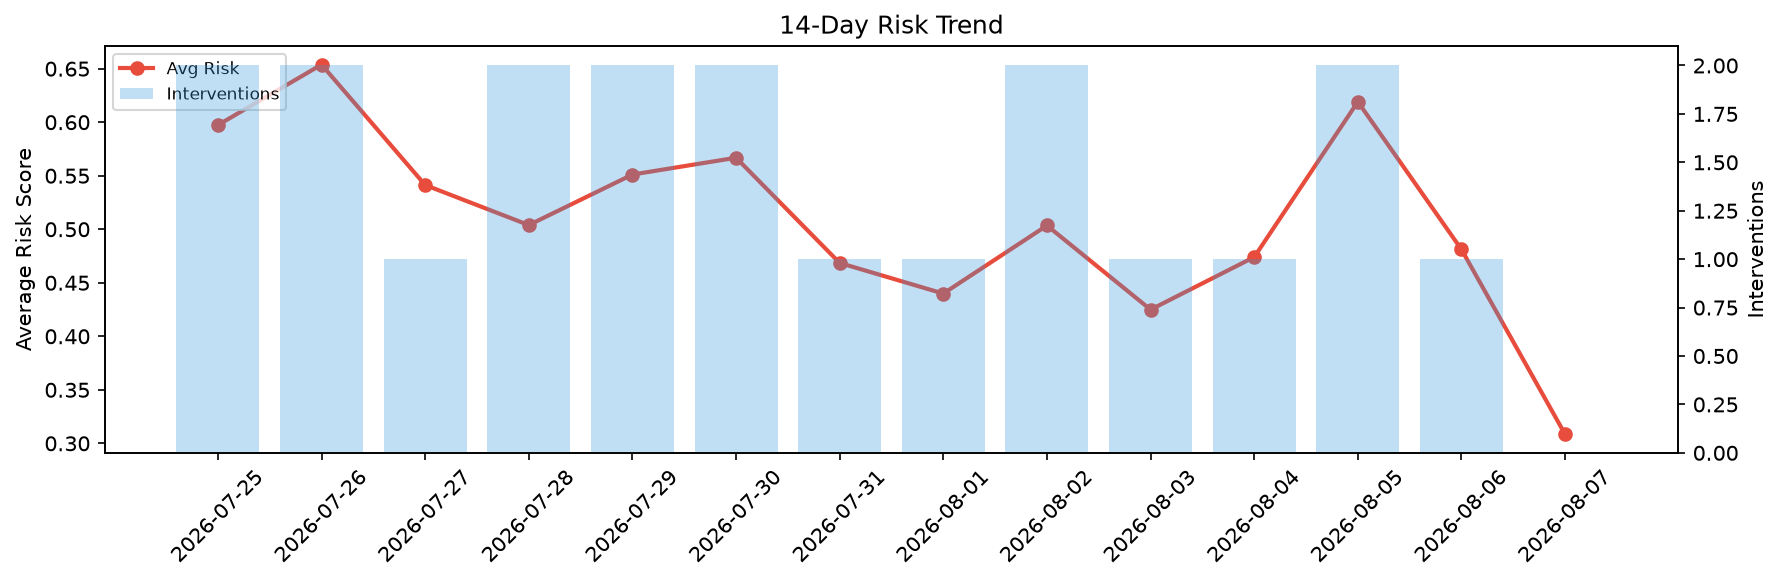
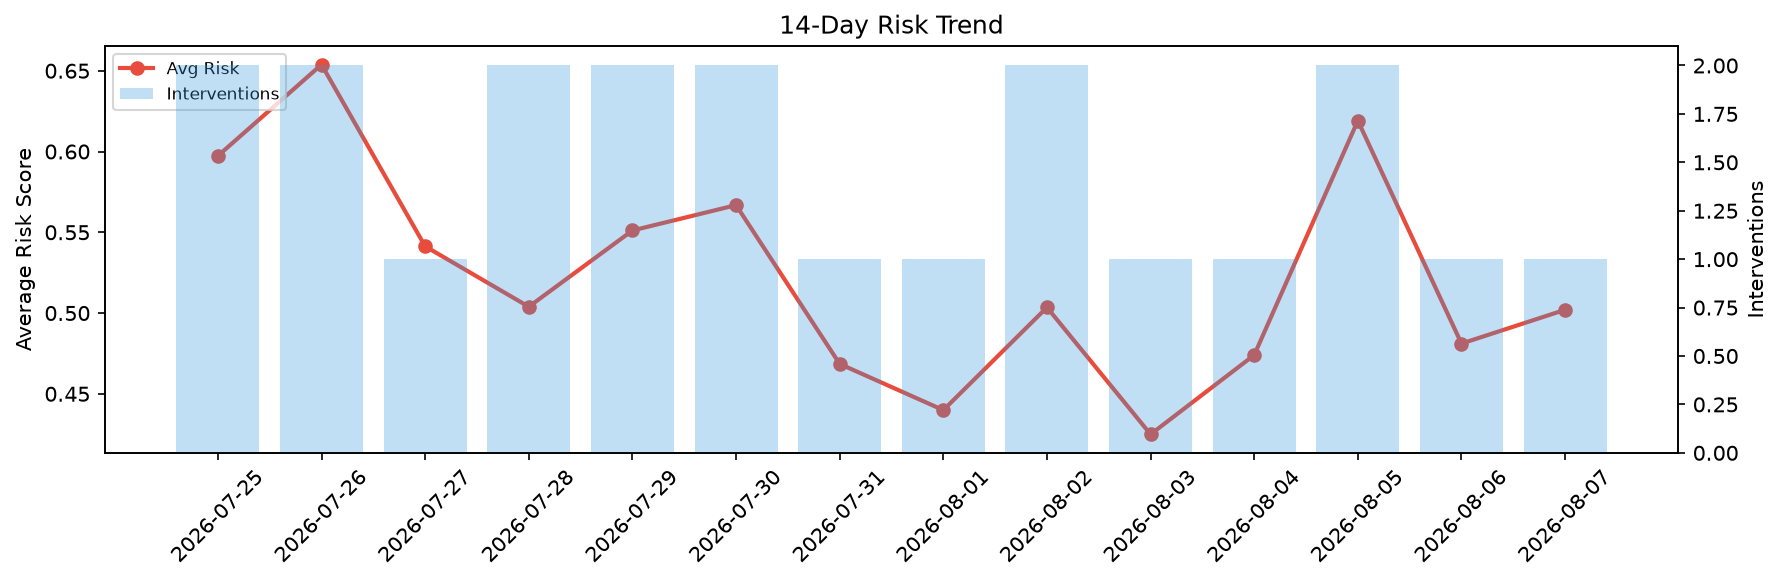
agent-improvement: daily cycle 2026-08-07T09:14

diff --git a/logs/2026-08-07.md b/logs/2026-08-07.md
@@ -1,6 +1,6 @@
 # Agent Improvement Report — 2026-08-07
 
-**Cycle ID:** `46667974` | **Avg Risk:** 0.3084 | **Interventions:** 0/4
+**Cycle ID:** `268ecb55` | **Avg Risk:** 0.502 | **Interventions:** 1/4
 
 ![Dashboard](2026-08-07_dashboard.png)
 
@@ -10,18 +10,18 @@
 
 | Domain | Risk Score | Decision | Alerts |
 |--------|-----------|----------|--------|
-| code_review | 0.5782 | monitor | none |
-| incident_response | 0.1409 | monitor | none |
-| data_pipeline | 0.2849 | monitor | none |
-| deployment | 0.2295 | monitor | none |
+| code_review | 0.4292 | monitor | none |
+| incident_response | 0.7068 | intervene | severity, mttr |
+| data_pipeline | 0.5031 | monitor | schema_drift |
+| deployment | 0.369 | monitor | canary_error |
 
 ## Delta vs Yesterday
 
 | Domain | Today | Yesterday | Change |
 |--------|-------|-----------|--------|
-| code_review | 0.5782 | 0.3114 | 📈 85.7% |
-| incident_response | 0.1409 | 0.6364 | 📉 -77.9% |
-| data_pipeline | 0.2849 | 0.5749 | 📉 -50.4% |
-| deployment | 0.2295 | 0.4017 | 📉 -42.9% |
+| code_review | 0.4292 | 0.3114 | 📈 37.8% |
+| incident_response | 0.7068 | 0.6364 | 📈 11.1% |
+| data_pipeline | 0.5031 | 0.5749 | 📉 -12.5% |
+| deployment | 0.369 | 0.4017 | 📉 -8.1% |
 
 **Refinement:** `{'adjustment': 'maintain', 'trend': 'improving', 'window': 4}`
